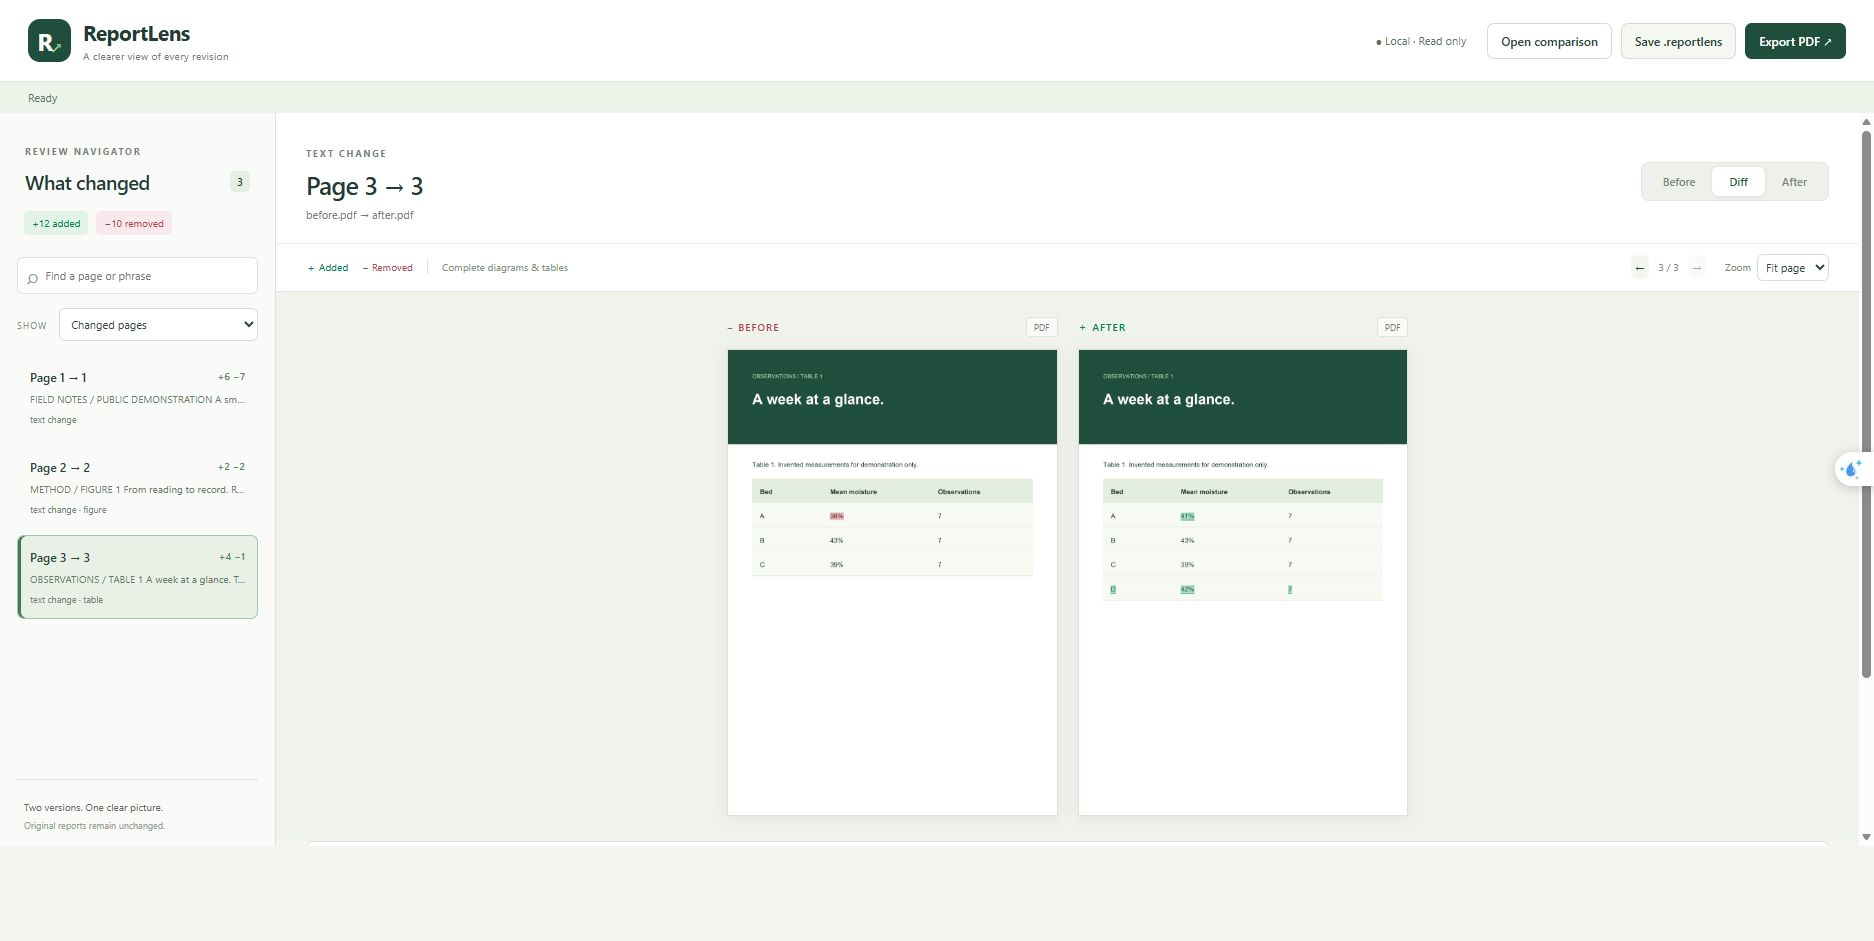
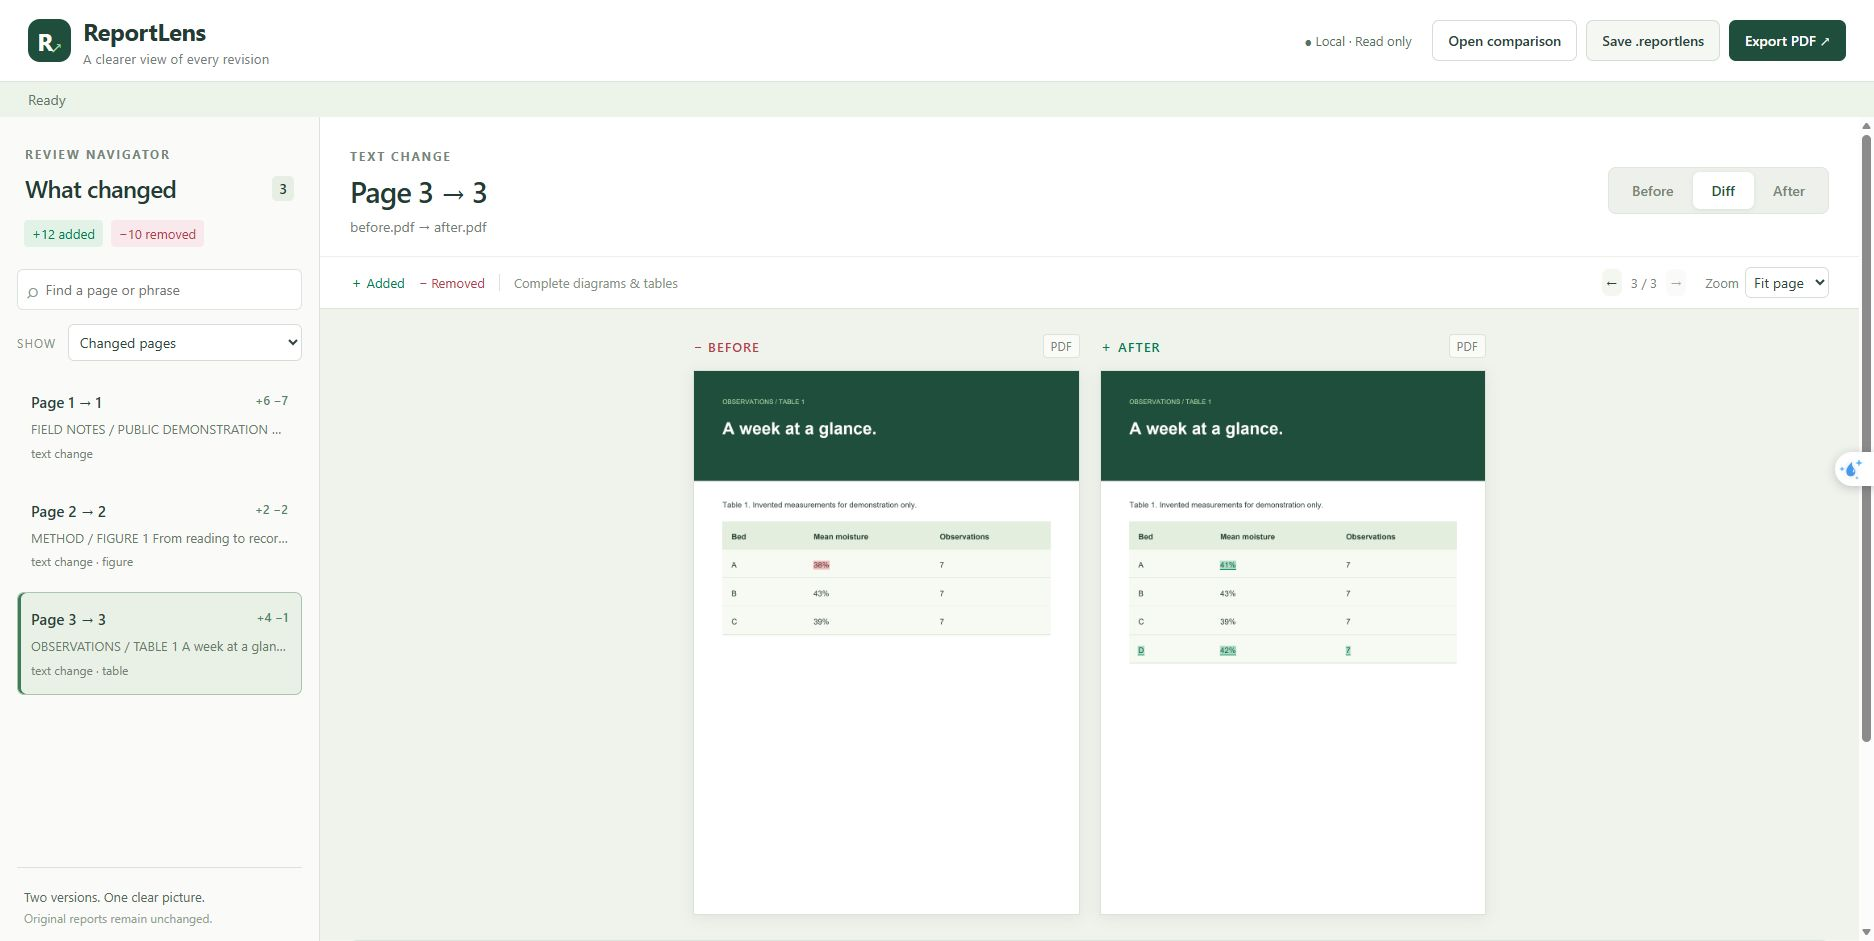
Enlarge review text and default to readable page width

diff --git a/reportlens/web/style.css b/reportlens/web/style.css
@@ -1,2 +1,49 @@
 :root{font-family:Inter,"Segoe UI",system-ui,sans-serif;color:#243b35;background:#f4f5f1;font-synthesis:none;--green:#087b50;--red:#b5374c;--line:#dce3dc;--muted:#728079}*{box-sizing:border-box}body{margin:0}button,select,input,.button{font:inherit}button,.button{cursor:pointer;border:1px solid #d4dcd5;background:#fff;color:#294239;padding:9px 13px;border-radius:7px;text-decoration:none;font-size:12px;font-weight:600;white-space:nowrap}button:hover,.button:hover{background:#eef3ee;border-color:#97b4a2}button:focus-visible,a:focus-visible,input:focus-visible,select:focus-visible{outline:3px solid #62b889;outline-offset:2px}button:disabled{opacity:.45;cursor:wait}.primary{background:#214e3b!important;color:#fff!important;border-color:#214e3b!important}.secondary{background:#f4f7f2}.topbar{height:82px;display:flex;justify-content:space-between;align-items:center;padding:0 28px;background:#fff;border-bottom:1px solid var(--line);gap:20px}.brand{display:flex;align-items:center;gap:12px;font-size:21px;font-weight:700;letter-spacing:-.5px}.brand small{display:block;font-size:10px;font-weight:400;color:var(--muted);letter-spacing:.3px;margin-top:3px}.logo{display:flex;align-items:center;justify-content:center;width:43px;height:43px;border-radius:12px;background:#224e3c;color:#fff;font-size:24px}.logo span{font-size:16px;color:#b3e3a3;margin:12px 0 0 -2px}.header-actions{display:flex;align-items:center;gap:9px}.privacy{font-size:11px;color:#587262;margin-right:12px}.revisionbar{padding:17px 28px;display:flex;align-items:end;gap:12px;background:#fafbf8;border-bottom:1px solid var(--line)}.revisionbar>label:not(.monitor){flex:1;min-width:130px;max-width:370px;font-size:9px;letter-spacing:1.4px;color:#728079;font-weight:700}.revisionbar select{width:100%;margin-top:6px}select{border:1px solid #d5ded6;border-radius:6px;padding:9px;background:white;color:#30463b;font-size:11px;max-width:100%}.monitor{font-size:11px;display:flex;align-items:center;align-self:center;gap:6px;margin-left:auto;white-space:nowrap}input[type=checkbox]{accent-color:var(--green)}.icon{border:0;background:transparent;padding-bottom:10px;font-size:18px}#status{padding:8px 28px;font-size:11px;color:#64766a;background:#edf3e9;min-height:31px;white-space:pre-wrap;max-height:120px;overflow:auto}#status.error{color:#a32537;background:#ffedf0}#status.busy{color:#536e21;background:#f3f5dd}main{display:grid;grid-template-columns:276px minmax(0,1fr);height:calc(100vh - 208px)}aside{background:#fafbf8;border-right:1px solid var(--line);display:flex;flex-direction:column;min-height:0;padding:25px 17px 15px}.eyebrow{font-size:9px;letter-spacing:1.8px;color:#768679;font-weight:700}.aside-heading{padding:0 8px}h1{font-size:20px;letter-spacing:-.6px;font-weight:600;margin:9px 0 16px;display:flex;justify-content:space-between;align-items:center}h1 span{font-size:11px;background:#e8eee4;padding:3px 7px;border-radius:5px;letter-spacing:0}.stats{display:flex;gap:8px;margin:0 7px 22px;font-size:10px}.stats span{border-radius:4px;padding:5px 8px;background:#e4f2e7;color:var(--green)}.stats span+span{background:#fae9ec;color:var(--red)}.search{display:flex;align-items:center;border:1px solid var(--line);border-radius:6px;padding:0 9px;background:#fff;color:#89988e}.search span{font-size:20px}.search input{border:0;background:transparent;padding:10px 7px;width:100%;font-size:11px;outline-offset:-2px}.filter-label{display:flex;align-items:center;gap:12px;font-size:9px;letter-spacing:1px;color:#829084;margin:14px 0}.filter-label select{flex:1;padding:7px;font-size:11px}nav{overflow:auto;flex:1;min-height:90px;margin:0 -6px;padding:0 6px}.page-item{display:block;width:100%;padding:13px 12px;text-align:left;margin-bottom:6px;background:transparent;border:1px solid transparent;white-space:normal;font-weight:400}.page-item:hover{background:#eef3eb}.page-item.active{border-color:#aac4ae;background:#eaf1e5;box-shadow:inset 3px 0 #427958}.page-item .row{display:flex;justify-content:space-between;gap:4px;font-size:12px;font-weight:600}.page-item .title{display:block;margin:7px 0 6px;font-size:10px;line-height:1.5;color:#6a796b;overflow:hidden;white-space:nowrap;text-overflow:ellipsis}.page-item .tag{font-size:9px;color:#748473;display:block}.page-item .numbers{font-size:10px;color:#568265}.aside-footer{padding:20px 7px 0;font-size:10px;color:#576b59;border-top:1px solid var(--line);margin-top:12px}.aside-footer small{display:block;font-size:9px;color:#91a08e;margin-top:5px}.workspace{min-width:0;overflow:auto;position:relative}.review-header{padding:27px 30px 19px;display:flex;align-items:center;justify-content:space-between;gap:20px;background:#fff}.review-header h2{font-size:25px;font-weight:600;margin:7px 0 6px;letter-spacing:-.8px}.review-header p{font-size:11px;color:#758276;margin:0;line-height:1.5;max-width:640px}.view-switch{display:flex;padding:4px;background:#eef1eb;border:1px solid #e1e6dd;border-radius:8px}.view-switch button{border:0;background:transparent;color:#788473;padding:7px 17px;font-size:11px}.view-switch button.selected{background:white;color:#28553b;box-shadow:0 1px 4px #1731261a}.toolbar{display:flex;justify-content:space-between;align-items:center;gap:10px;border-top:1px solid #edf0e9;border-bottom:1px solid var(--line);padding:10px 30px;background:#fff}.legend{display:flex;gap:14px;align-items:center;font-size:10px}.added{color:var(--green)}.removed{color:var(--red)}.context{color:#879183;border-left:1px solid var(--line);padding-left:14px}.pager{display:flex;gap:9px;align-items:center;font-size:10px;color:#7b8677}.pager button{border:0;padding:4px;background:#f4f6f0}.pager label{margin-left:10px;display:flex;align-items:center;gap:6px}.pager select{padding:4px}.canvas{display:flex;gap:20px;padding:25px 30px;align-items:flex-start;overflow:auto;min-height:360px;background:#f0f2ec}.page-column{flex:1;min-width:0}.page-label{display:flex;justify-content:space-between;align-items:center;font-size:10px;font-weight:600;margin-bottom:12px;letter-spacing:1px}.page-label .pill{font-size:9px;letter-spacing:0;font-weight:400;border:1px solid var(--line);border-radius:4px;padding:3px 7px;background:#fafbf7;color:#758273}.paper{display:block;width:100%;height:auto;box-shadow:0 3px 14px #243c3014;background:#fff;border:1px solid #dce2d6}.page-empty{height:350px;border:1px dashed #cbd5c7;display:flex;align-items:center;justify-content:center;color:#86917f;font-size:12px}.canvas.zoomed .page-column{flex:none}.canvas.single .page-column{max-width:900px;margin:0 auto}.welcome{margin:60px auto;text-align:center;color:#738470;font-size:13px;line-height:1.9}.welcome h2{font-size:29px;color:#284b36;font-weight:500;letter-spacing:-.7px}.welcome-icon{background:#e3ecdd;border-radius:50%;width:65px;height:65px;margin:auto;display:grid;place-items:center;font-size:35px;color:#508358}.hint{font-size:11px;color:#8a9782}details{background:#fff;border:1px solid var(--line);border-radius:7px;margin:0 30px 20px;font-size:12px}summary{padding:14px 16px;cursor:pointer;font-weight:600}#edits{padding:0 16px 12px;max-height:350px;overflow:auto}.edit{border-top:1px solid #eef1e8;padding:12px 0;display:grid;grid-template-columns:1fr 1fr;gap:15px;line-height:1.8;font-size:12px}.edit del,.edit ins{padding:2px 4px;border-radius:3px;white-space:pre-wrap;overflow-wrap:anywhere}.edit del{background:#fbe8ec;color:#a62d43}.edit ins{background:#e1f3e5;color:#097145;text-decoration:none;border-bottom:1px solid #26935a}.empty-edits{color:#7e8c77;font-size:11px;padding:0 0 6px}footer{font-size:9px;color:#8d9985;padding:0 30px 20px;line-height:1.7}[hidden]{display:none!important}@media(max-width:1100px){.privacy,.context{display:none}.revisionbar{flex-wrap:wrap}.monitor{margin-left:0}.review-header{padding:20px}.toolbar{padding:10px 20px}.canvas{padding:20px;gap:12px}main{grid-template-columns:235px minmax(0,1fr)}.header-actions{gap:5px}.topbar{padding:0 20px}}@media(max-width:750px){.topbar{height:auto;padding:15px;align-items:flex-start;flex-wrap:wrap}.header-actions{flex-wrap:wrap}.revisionbar{padding:12px}main{display:block;height:auto}aside{max-height:330px;padding:15px}nav{display:flex;min-height:85px;overflow:auto}.page-item{min-width:210px}.aside-footer,.aside-heading,.stats{display:none}.review-header{flex-wrap:wrap}.canvas{flex-direction:column}.page-column{width:100%}.toolbar{flex-wrap:wrap}.edit{grid-template-columns:1fr}}
 :root .canvas.zoomed{justify-content:safe center}
+
+/* Comfortable reading sizes for a report review tool. */
+body { font-size: 16px; height: 100vh; display: flex; flex-direction: column; overflow: hidden; }
+.topbar, .revisionbar, #status { flex-shrink: 0; }
+button, .button { font-size: 14px; padding: 10px 15px; }
+select { font-size: 14px; }
+.brand { font-size: 24px; }
+.brand small, .privacy { font-size: 13px; }
+.eyebrow, .revisionbar > label:not(.monitor) { font-size: 12px; }
+.monitor, #status { font-size: 14px; }
+main { grid-template-columns: 320px minmax(0, 1fr); flex: 1; min-height: 0; height: auto; }
+h1 { font-size: 24px; }
+h1 span { font-size: 14px; }
+.stats { font-size: 13px; }
+.search input { font-size: 14px; }
+.filter-label { font-size: 12px; }
+.filter-label select { font-size: 14px; }
+.page-item { padding: 16px 13px; }
+.page-item .row { font-size: 15px; }
+.page-item .title { font-size: 13px; }
+.page-item .tag, .page-item .numbers { font-size: 12px; }
+.aside-footer { font-size: 13px; }
+.aside-footer small { font-size: 12px; }
+.review-header h2 { font-size: 29px; }
+.review-header p { font-size: 14px; }
+.view-switch button { font-size: 14px; padding: 9px 19px; }
+.legend, .pager { font-size: 13px; }
+.page-label { font-size: 13px; }
+.page-label .pill { font-size: 12px; }
+.page-empty { font-size: 15px; }
+details, .edit { font-size: 15px; }
+.empty-edits { font-size: 14px; }
+footer { font-size: 12px; }
+@media (max-width: 1250px) {
+  .revisionbar { flex-wrap: wrap; }
+  .monitor { margin-left: 0; }
+  .privacy, .context { display: none; }
+  .header-actions { flex-wrap: wrap; }
+}
+@media (max-width: 1000px) {
+  main { grid-template-columns: 270px minmax(0, 1fr); }
+  .review-header, .toolbar { flex-wrap: wrap; }
+}
+@media (max-width: 750px) {
+  body { height: auto; display: block; overflow: auto; }
+  main { display: block; }
+}

diff --git a/reportlens/web/index.html b/reportlens/web/index.html
@@ -7,7 +7,7 @@
 <main>
 <aside><div class="aside-heading"><span class="eyebrow">REVIEW NAVIGATOR</span><h1>What changed<span id="count">0</span></h1></div><div id="stats" class="stats"><span>+0 added</span><span>−0 removed</span></div><label class="search"><span>⌕</span><input id="search" placeholder="Find a page or phrase" aria-label="Search pages and edits"></label><label class="filter-label">SHOW<select id="filter"><option value="changed">Changed pages</option><option value="all">All pages</option><option value="text">Text changes</option><option value="objects">Figures & tables</option><option value="visual">Visual / layout changes</option></select></label><nav id="pages" aria-label="Page comparisons"></nav><div class="aside-footer">Two versions. One clear picture.<small>Original reports remain unchanged.</small></div></aside>
 <section class="workspace"><div class="review-header"><div><span class="eyebrow" id="comparison-label">REPORT COMPARISON</span><h2 id="heading">See what changed.</h2><p id="subtitle">Open a comparison package or connect a report repository.</p></div><div class="view-switch" role="group" aria-label="Review view"><button data-view="before">Before</button><button data-view="diff" class="selected">Diff</button><button data-view="after">After</button></div></div>
-<div class="toolbar"><div class="legend"><span class="added">＋ Added</span><span class="removed">− Removed</span><span class="context">Complete diagrams & tables</span></div><div class="pager"><button id="prev" aria-label="Previous comparison">←</button><span id="position">0 / 0</span><button id="next" aria-label="Next comparison">→</button><label>Zoom <select id="zoom"><option value="fit">Fit width</option><option value="page" selected>Fit page</option><option value="50">50%</option><option value="75">75%</option><option value="100">100%</option><option value="150">150%</option><option value="200">200%</option></select></label></div></div>
+<div class="toolbar"><div class="legend"><span class="added">＋ Added</span><span class="removed">− Removed</span><span class="context">Complete diagrams & tables</span></div><div class="pager"><button id="prev" aria-label="Previous comparison">←</button><span id="position">0 / 0</span><button id="next" aria-label="Next comparison">→</button><label>Zoom <select id="zoom"><option value="fit" selected>Fit width</option><option value="page">Fit page</option><option value="50">50%</option><option value="75">75%</option><option value="100">100%</option><option value="150">150%</option><option value="200">200%</option></select></label></div></div>
 <div id="canvas" class="canvas"><div class="welcome"><div class="welcome-icon">⇄</div><h2>Every revision, in view.</h2><p>Switch between the original versions and a highlighted comparison.<br>Diagrams and tables stay complete, with their full page context.</p><p class="hint">Open a .reportlens file to start reviewing.</p></div></div>
 <details id="text-panel" hidden open><summary>Text changes on these pages <span id="edit-count"></span></summary><div id="edits"></div></details>
 <footer id="notes">Read-only review · Runs on your computer · No cloud upload</footer></section>
